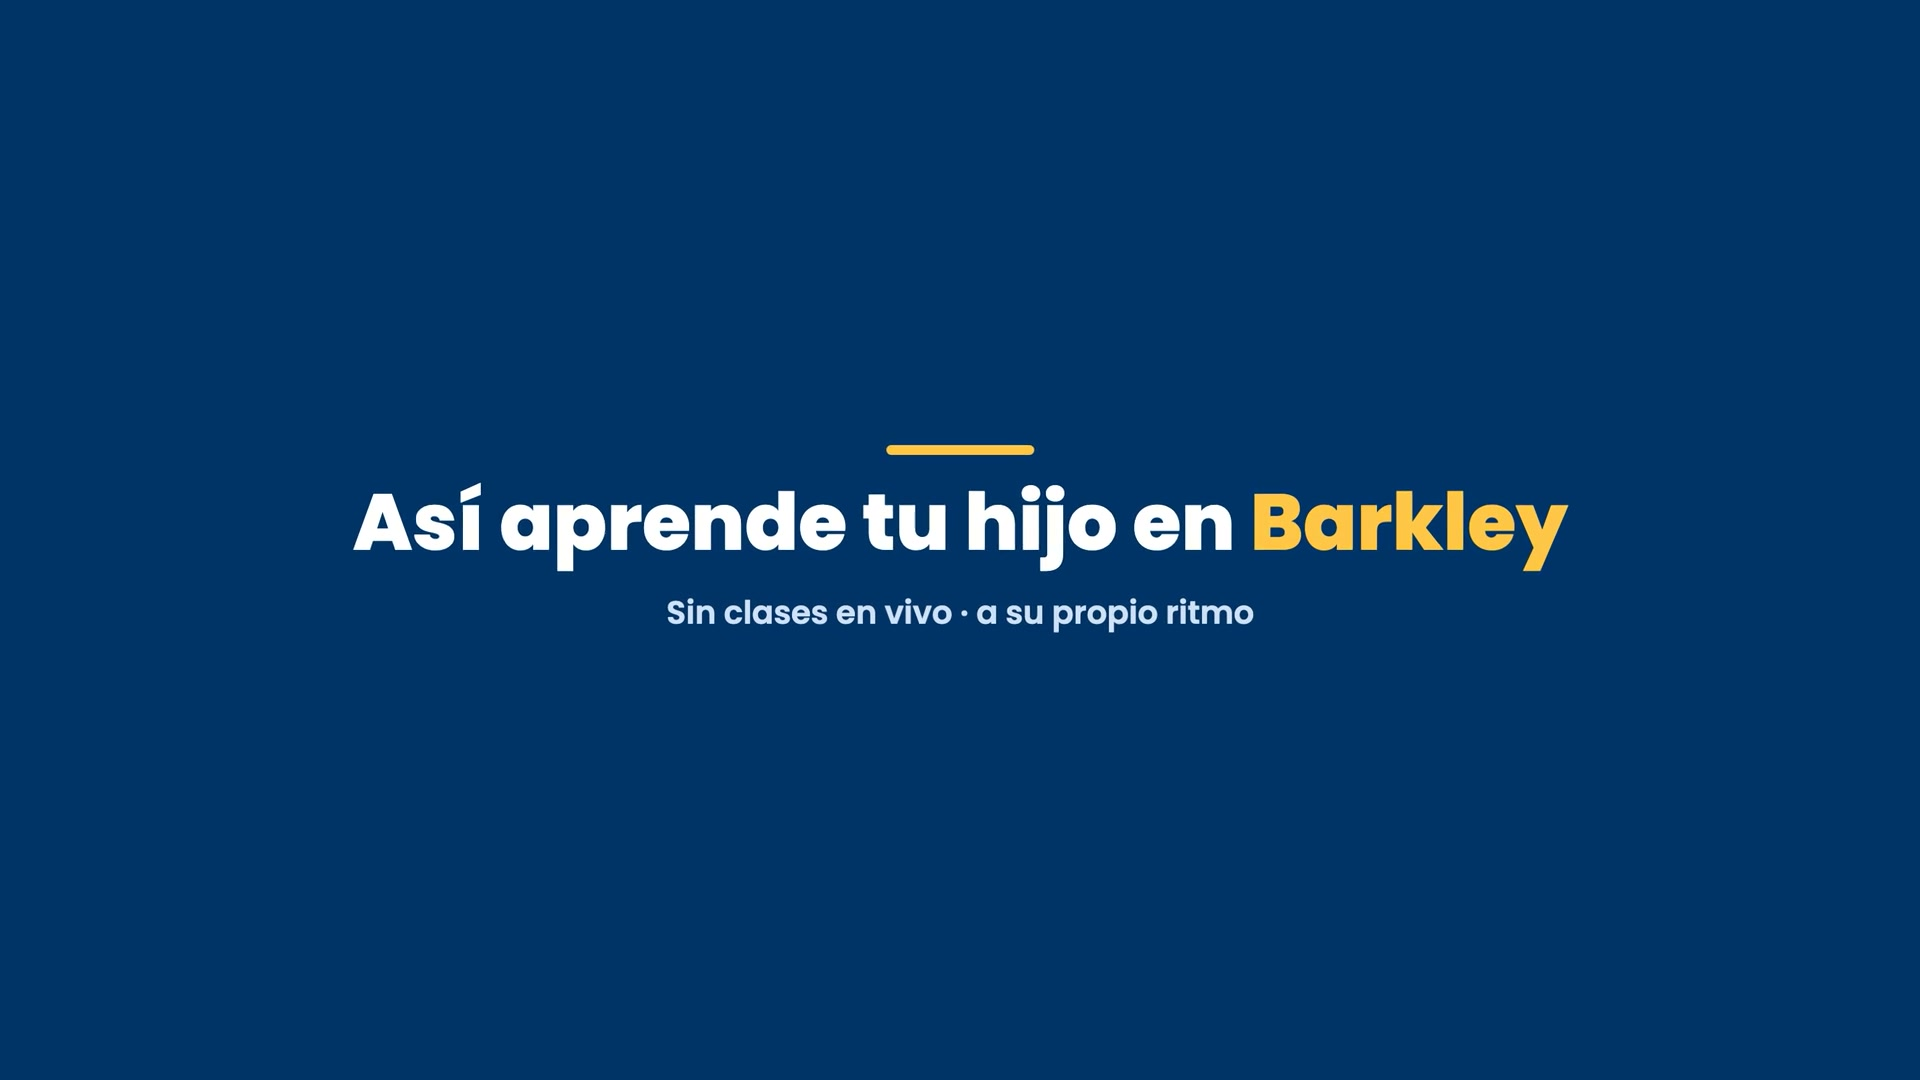
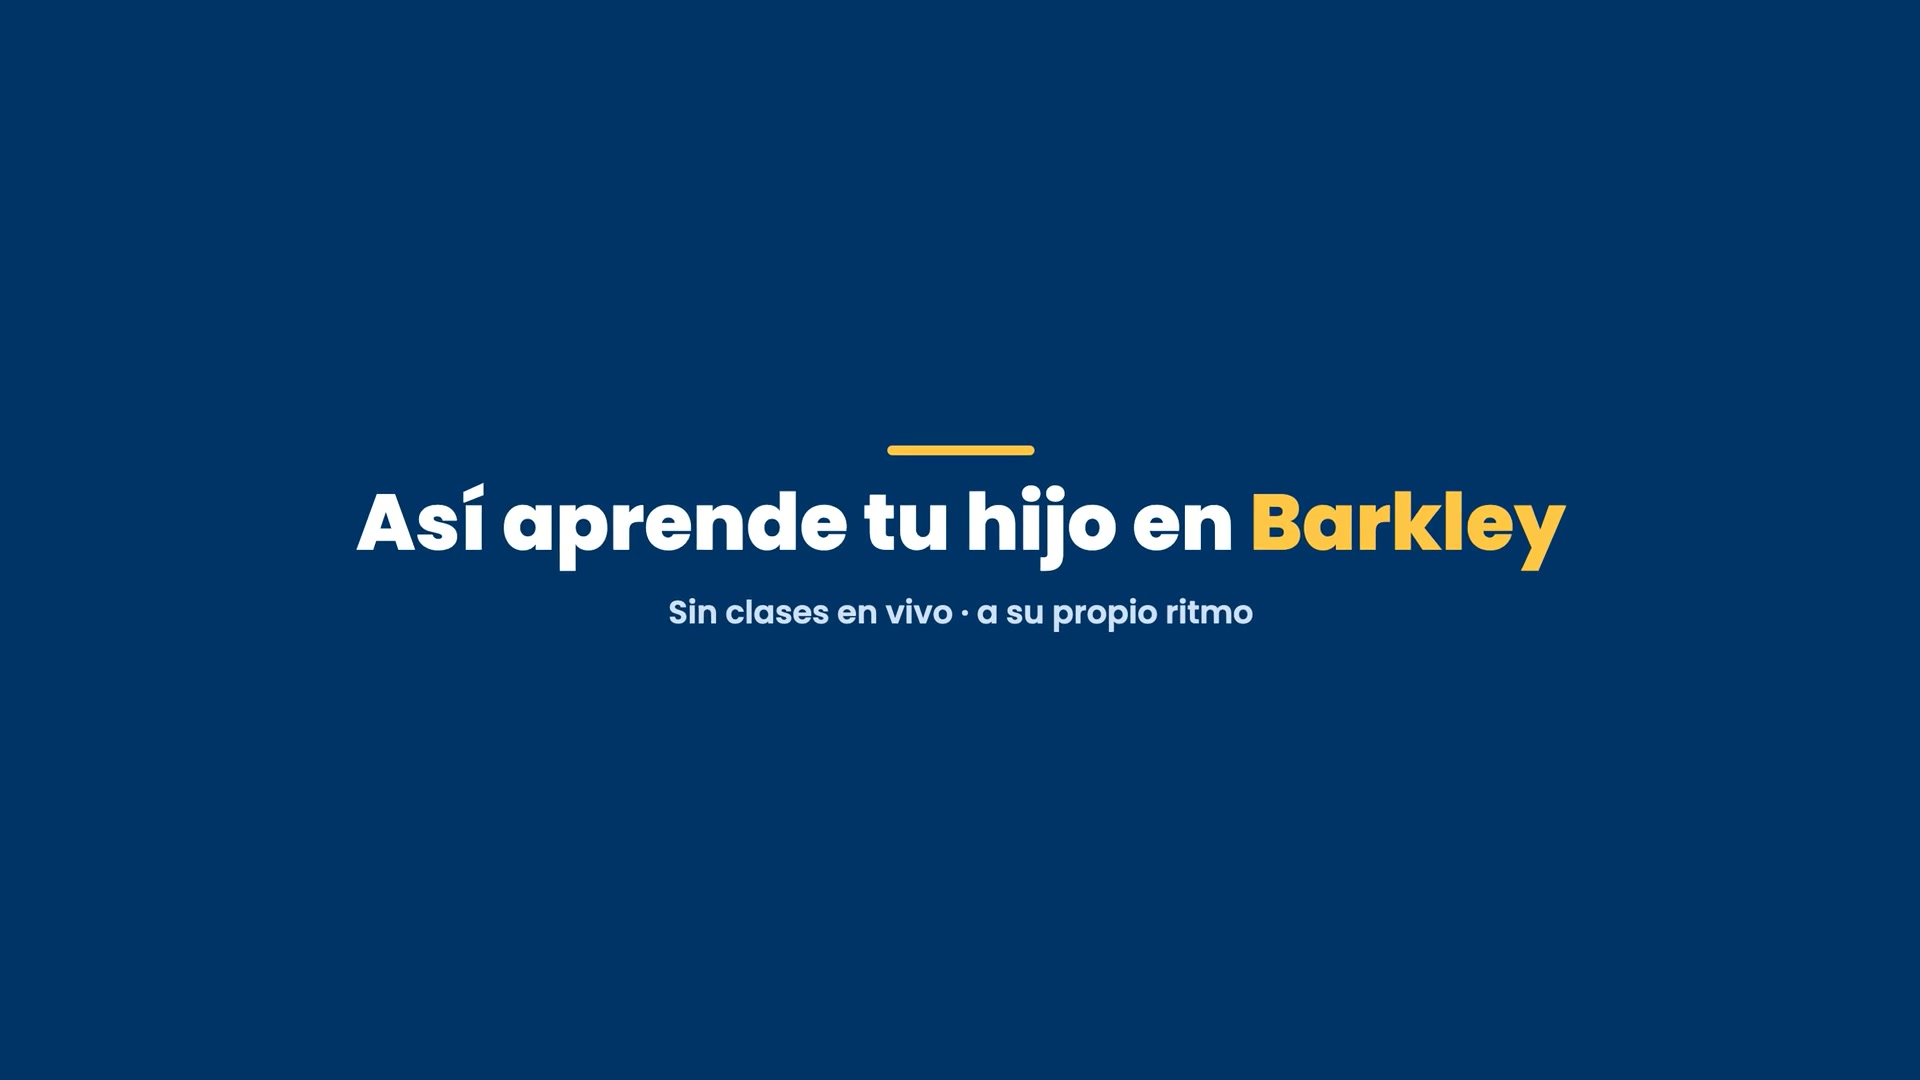
feat(home): rehace el tour — foco anclado al contenido + mensaje "flexible, no libre"
Problema real: el paneo amplio alejaba el elemento del que hablaba la
narración justo a mitad de frase (motion sin propósito, genérico).

Fix:
- Cada beat ahora recorta EXACTO al elemento que la voz está explicando
  (tarjeta de continuar, reproductor, tarjeta de pódcast, KPIs del
  apoderado) y aplica solo un zoom mínimo de respiración — el foco
  nunca sale de cuadro mientras se narra.
- Nuevo beat: captura real del módulo "Calendario académico" (con las
  5 fechas fijas) para respaldar visualmente el mensaje que faltaba:
  el sistema es flexible en el ritmo, pero NO es libre — hay plazos
  reales para evaluaciones y unidades.
- Beat "curso" ahora encuadra la unidad bloqueada con candado junto al
  texto sobre "plazos", conectando visual y verbalmente la idea.
- Narración ajustada (voz Catalina): agrega la frase sobre plazos y
  refuerza "avanza paso a paso, dentro de esos plazos".
- Duración 29.8s → 32.0s por el beat nuevo.

diff --git a/client/src/pages/Home.tsx b/client/src/pages/Home.tsx
@@ -754,7 +754,7 @@ export default function Home() {
             <div style={{ margin: "0 auto 48px", maxWidth: 880 }}>
               <div style={{ display: "flex", flexWrap: "wrap", alignItems: "center", gap: 12, margin: "0 0 14px" }}>
                 <span style={{ display: "inline-flex", alignItems: "center", gap: 7, background: NAVY, color: "#fff", fontSize: 12, fontWeight: 700, textTransform: "uppercase", letterSpacing: "0.06em", padding: "6px 12px", borderRadius: 999 }}>
-                  <Play style={{ width: 13, height: 13 }} strokeWidth={3} /> Tour en 30 segundos
+                  <Play style={{ width: 13, height: 13 }} strokeWidth={3} /> Tour en 32 segundos
                 </span>
                 <span style={{ fontSize: 14, color: TEXT }}>Lo que ve tu hijo y lo que ves tú como apoderado — al grano.</span>
               </div>